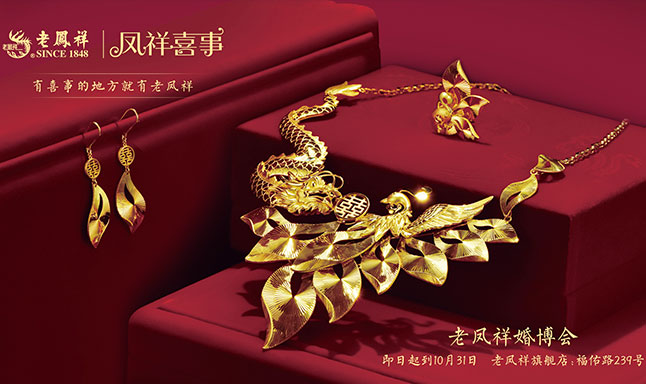
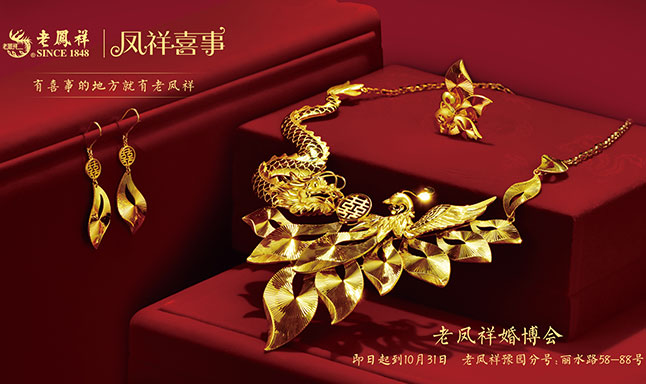
youhua

diff --git a/views/game.html b/views/game.html
@@ -126,6 +126,10 @@
             border-radius: .2rem;
         }
         .djs{
+            height: 1.2rem;
+            width: 1.2rem;
+            background: url(../public/images/djsbj.png) no-repeat;
+            background-size: 100%;
             text-align: center;
             color: white;
             font-size: .45rem;
@@ -134,6 +138,11 @@
             left: 50%;
             transform: translateX(-50%);
             top: 4.8rem;
+            line-height: 1.2rem;
+            color: #f55884;
+            text-align: center;
+            font-weight: bold;
+            text-indent: .05rem;
         }
 
         .clipped-box:nth-child(1){
@@ -271,7 +280,7 @@
             position: fixed;
             height: 100%;
             width: 100%;
-            background: rgba(0, 0, 0, .4);
+            background: rgba(0, 0, 0, .7);
             z-index: 9999;
             display: none;
 
@@ -315,12 +324,12 @@
             margin-top: 6.3rem;
        }
        .xxk{
-        width: 4.3rem;
-        height: 2.4rem;
-        left: 50%;
-        top: 3.6rem;
-        transform: translateX(-50%);
-        position: absolute;
+            width: 4.3rem;
+            height: 2.4rem;
+            left: 50%;
+            top: 3.6rem;
+            transform: translateX(-50%);
+            position: absolute;
         }
        .xxk input{
             display: block;
@@ -359,12 +368,58 @@
             line-height: .6rem;
 
         }
+        .sm{
+            color: white;
+            left: 21%;
+            bottom: .6rem;
+            position: absolute;
+            width: 100%;
+        }
+        .yxgzts{
+            position: fixed;
+            height: 100%;
+            width: 100%;
+            background: rgba(0, 0, 0, .7);
+            z-index: 9989;
+            /* display: none; */
+            
+
+        }
+        .yxgzts img{
+            width: 100%;
+            position: absolute;
+            top: 50%;
+            transform: translateY(-50%);
+            
+        }
+        .smclose{
+            width: .6rem;
+            height: 0.6rem;
+            left: 85%;
+            transform: translateX(-50%);
+            color: white;
+            background: red;
+            font-size: .5rem;
+            line-height: .5rem;
+            text-align: center;
+            position: absolute;
+            border-radius: 50%;
+            font-weight: bold;
+
+        }
+        .ss{
+            height: 10rem;
+            position: absolute;
+            width: 100%;
+            top: 50%;
+            transform: translateY(-50%);
+        }
     </style>
 </head>
 <body>
     <img src="../public/images/g-baner.png" alt="" class="baner">
-    <div class="djs">
-        剩余 : <span class="sj">20</span> S
+    <div class="djs sj">
+        20
     </div>
     <div class="gz">规则攻略</div>
     <div class="yx">
@@ -383,9 +438,16 @@
                 <input type="text" class="tell" placeholder="电话">
                 <div style="margin-right: .3rem;" class="tj">提交</div>
                 <div class="goIndex">回到主页</div>
+                
+
+                
             </div>
 
-
+            <p class="sm">
+                1.凭手机号进店即可免费老凤祥口罩夹一个<br>
+                2.上海老凤祥豫园分号黄浦区丽水路58-88号<br>
+                3.每人仅限领取同类产品一次
+            </p>
         </div>
         <div class="sb">
             <div style="margin-left: .85rem;" class="restart">再来一次</div>
@@ -395,6 +457,14 @@
             ×
         </div>
         
+    </div>
+    <div class="yxgzts">
+        <div class="ss">
+            <img src="../public/images/yxgz.png" alt="">
+            <div class="smclose">
+                ×
+            </div>
+        </div>
     </div>
     
 </body>
@@ -504,8 +574,10 @@
    $('body').on('click','.close',function () { 
         $('.result').fadeOut()
 
+    }).on('click','.smclose',function () { 
+        $('.yxgzts').fadeOut()
     }).on('click','.clipped-box div',function (e) {
-        console.log(djs)
+        
         if(djs>0){
             var _this=this
             var timer =null;

diff --git a/views/lfx.html b/views/lfx.html
@@ -347,6 +347,8 @@
         .yx-gz span{
             display: block;
             color: white;
+            width: 5.5rem;
+            margin-left: -0.5rem;
         }
         .yx-gz-title{
             text-align: center;
@@ -436,9 +438,9 @@
                         活动规则
                     </span>
                     <span>
-                        1.凭手机号领取，每人仅限一次<br>
-                        2.有效时间:8月19日-10日,仅限上海老凤祥旗舰店黄浦区福佑路239号 <br>
-                        3.活动页类同类产品仅可领取一次
+                        1.有效时间：8月19日-10月2日 <br>
+                        2.领取地址：上海老凤祥豫园分号黄浦区丽水路58-88号 <br>
+                        3.每人仅限领取同类产品一次
                     </span>
                 </p>
 
@@ -461,9 +463,9 @@
                         活动规则
                     </span>
                     <span>
-                        1.凭手机号领取，每人仅限一次<br>
-                        2.有效时间:8月19日-10日,仅限上海老凤祥旗舰店黄浦区福佑路239号 <br>
-                        3.活动页类同类产品仅可领取一次
+                        1.分享1次微信好友即可拼券到上海老凤祥豫园分号黄浦区丽水路58-88号领取老凤祥麻布袋便携餐具一份（100份）<br>
+                        2.仅限上海老凤祥豫园分号黄浦区丽水路58-88号<br>
+                        3.活动页类同类产品仅限可领取一次
                     </span>
                 </p>
 

diff --git a/controllers/apiController.js b/controllers/apiController.js
@@ -36,8 +36,7 @@ let luckDraw =async function ( req,res) {
 			newArr.push(temArr);
 			count++;
 		});
-		console.log(newArr)
-		console.log(prizeNumber)
+		
 		util.customForeach(newArr, async function (val, index) { 
 			if (prizeNumber>val[0] && prizeNumber<=val[1]) {
 				prizeName=Object.keys(rate)[index];
